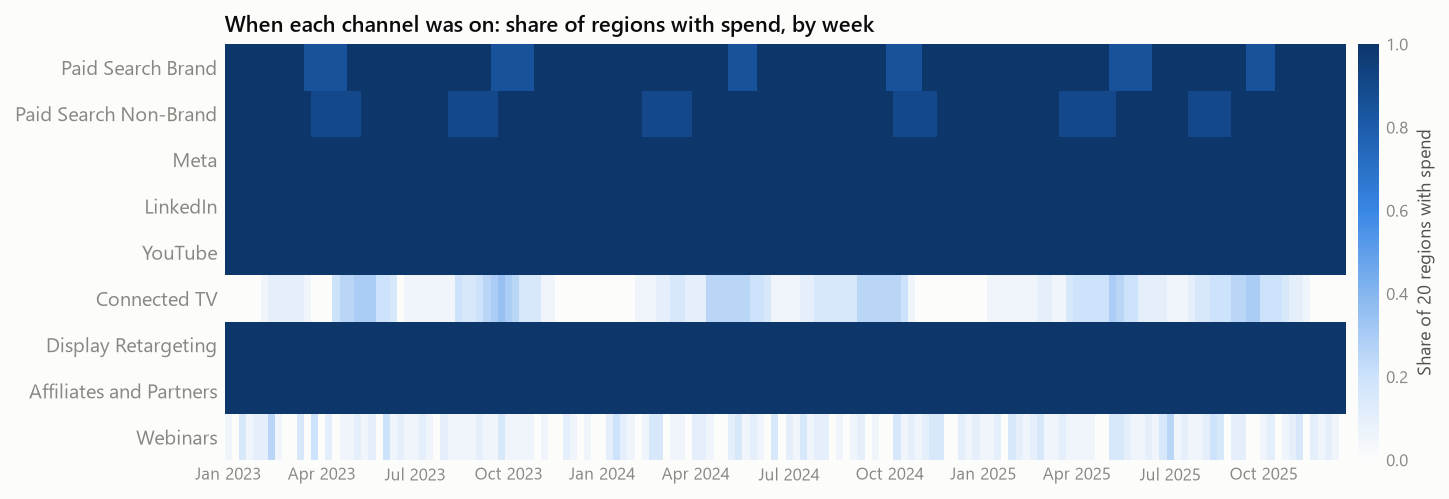
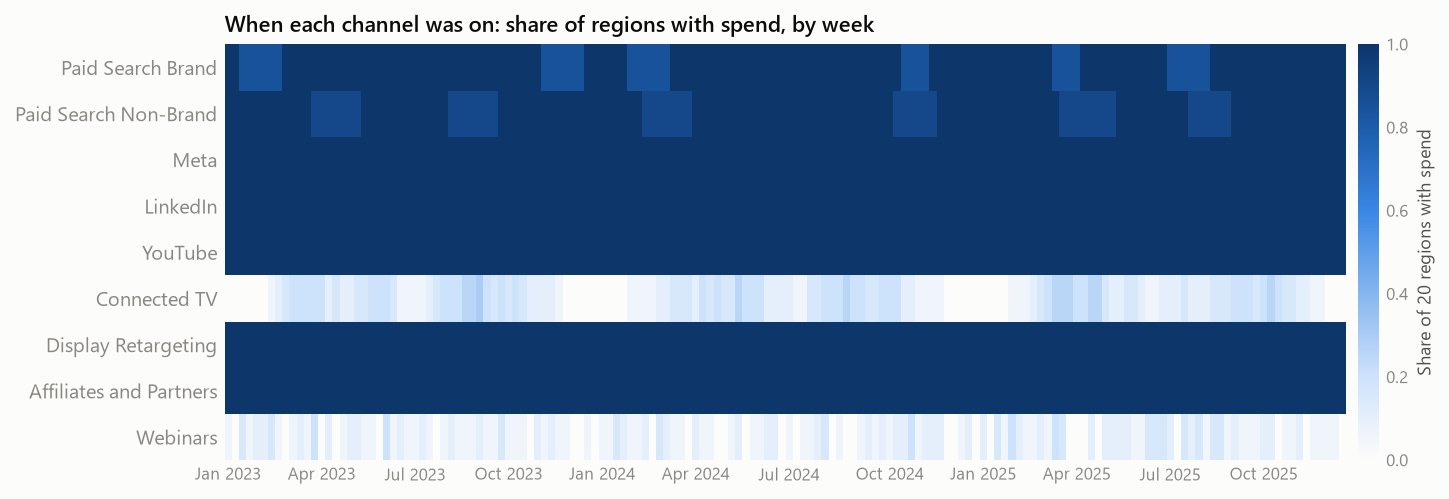
docs(eda): drop the fall timing table and regenerate the report
Raw leads mix demand with media pushes timed nationally, so the
north-to-south timing gap is not reliably visible in them; the table
read differently from seed to seed.

diff --git a/eda/report.py b/eda/report.py
@@ -103,11 +103,6 @@ def load(con) -> dict[str, pd.DataFrame]:
     d["outcome"] = _q(con, """
         select week_start, sum(leads) as leads, sum(won_deals) as deals, sum(won_revenue)::double as revenue
         from fct_funnel group by 1 order by 1""")
-    d["area_leads"] = _q(con, """
-        select f.week_start, f.sales_area, sum(f.leads) as leads
-        from fct_funnel f join dim_channel c using (channel_id)
-        where c.marketing_role = 'unpaid' group by 1, 2 order by 1, 2""")
-    d["area_latitude"] = _q(con, "select sales_area, avg(latitude) as latitude from dim_region group by 1")
     d["by_channel"] = _q(con, """
         select channel_id, year(week_start) as yr, sum(spend)::double as spend,
                sum(platform_conversions) as claims, sum(sourced_leads) as crm_leads
@@ -120,7 +115,7 @@ def load(con) -> dict[str, pd.DataFrame]:
     d["plan_changes"] = _q(con, """
         select change_date, channel_id, budget_change_pct, reason
         from stg_media_plan_changes order by change_date, channel_id""")
-    for k in ("spend", "region_spend", "outcome", "controls", "area_leads"):
+    for k in ("spend", "region_spend", "outcome", "controls"):
         d[k]["week_start"] = pd.to_datetime(d[k]["week_start"])
     d["plan_changes"]["change_date"] = pd.to_datetime(d["plan_changes"]["change_date"])
     return d
@@ -223,25 +218,6 @@ def seasonal_index(d) -> pd.DataFrame:
     last = o.week_start.max()
     o = o[o.week_start < last - pd.Timedelta(weeks=3)]  # drop censored final weeks
     return o.groupby("woy")[["deals_idx", "leads_idx"]].mean()
-
-
-def busy_season_timing(d) -> pd.DataFrame:
-    """When the fall busy season lands in each sales area, from unpaid-source leads (organic
-    search, direct, referral), which carry less of the media calendar than paid sources."""
-    a = d["area_leads"].copy()
-    a["yr"] = a.week_start.dt.isocalendar().year.astype(int)
-    a["woy"] = a.week_start.dt.isocalendar().week.astype(int)
-    a = a[(a.woy <= 52) & (a.week_start < a.week_start.max() - pd.Timedelta(weeks=3))]
-    a["idx"] = 100 * a.leads / a.groupby(["sales_area", "yr"]).leads.transform("mean")
-    prof = a.groupby(["sales_area", "woy"]).idx.mean().unstack(0).rolling(3, center=True).mean()
-    lat = d["area_latitude"].set_index("sales_area").latitude
-    rows = []
-    for area in lat.sort_values(ascending=False).index:
-        above = (prof[area].loc[36:48] - 100).clip(lower=0)
-        rows.append({"Sales area": area, "Average latitude": f"{lat[area]:.1f}",
-                     "Middle of the fall busy season (ISO week)": f"{(above.index * above).sum() / above.sum():.1f}",
-                     "Fall peak week": int(prof[area].loc[36:48].idxmax())})
-    return pd.DataFrame(rows)
 
 
 def chart_seasonality(si: pd.DataFrame) -> str:
@@ -486,11 +462,6 @@ def build(con) -> str:
                    + (f"Not seen: {', '.join(misses)}. The MMM should learn seasonality from the data rather than "
                       "impose the planning calendar." if misses else "The data matches the planning calendar."))
     promo_lift = si.loc[46:50, "deals_idx"].mean() / si.loc[46:50, "leads_idx"].mean()
-    timing = busy_season_timing(d)
-    mid = timing["Middle of the fall busy season (ISO week)"].astype(float)
-    gap = mid.iloc[-1] - mid.iloc[0]
-    timing_note = (f"The fall season lands about {abs(gap):.1f} weeks {'earlier' if gap > 0 else 'later'} in the "
-                   f"{timing['Sales area'].iloc[0]} than in the {timing['Sales area'].iloc[-1]}.")
 
     by_year = d["by_channel"].copy()
     role = dict(zip(d["channels"].channel_id, d["channels"].marketing_role))
@@ -540,12 +511,6 @@ def build(con) -> str:
           _table(pd.DataFrame(season_rows)), "",
           f"{season_note} During the year-end promo (weeks 46 to 50), deals run {promo_lift - 1:+.0%} relative to leads, "
           "which is what a discount on annual plans should do.", "",
-          "The seasons do not arrive on the same week everywhere. Below is when the fall busy season lands in each sales "
-          "area, north to south, measured on leads from unpaid sources (organic search, direct, referral), which carry "
-          "less of the media calendar than paid sources. The middle week weights each week by how far its 3-week average "
-          "sits above 100.", "",
-          _table(timing), "",
-          timing_note, "",
           "## 4. How the media was flighted", "",
           f"![Flighting calendar]({img['flight']})", "",
           f"![Spend by channel]({img['spend']})", "",

diff --git a/docs/eda/EDA.md b/docs/eda/EDA.md
@@ -14,11 +14,11 @@ Built by `python -m eda` from the dbt warehouse only: the golden tables plus a f
 | fct_controls_weekly is a full grid | 3,120 rows (expected 3,120) | Pass |
 | Spend matches the platform exports | $41.9M in both; difference $0.00 | Pass |
 | No negative values; clicks never exceed impressions | 0 bad rows | Pass |
-| Every lead maps to a channel | 0 unmapped of 825,356; 19% recorded as direct | Pass |
+| Every lead maps to a channel | 0 unmapped of 830,676; 19% recorded as direct | Pass |
 | Lead to close (won deals) | median 14 days; 80% between 8 and 24 | Pass |
-| Censoring at the end of the window | 37% of opportunities from the last 4 weeks are still open; treat the final weeks of deals as incomplete | Note |
+| Censoring at the end of the window | 41% of opportunities from the last 4 weeks are still open; treat the final weeks of deals as incomplete | Note |
 | Promo and price calendar loaded | 4 entries | Pass |
-| Channels are not collinear | largest correlation 0.51 (Meta and LinkedIn); largest VIF 1.8 | Pass |
+| Channels are not collinear | largest correlation 0.51 (Meta and LinkedIn); largest VIF 2.0 | Pass |
 
 ## 2. Outcome and spend over time
 
@@ -26,9 +26,9 @@ Built by `python -m eda` from the dbt warehouse only: the golden tables plus a f
 
 | Year | Paid spend | Leads | Closed-won deals | New contract value | Spend per deal |
 |---|---|---|---|---|---|
-| 2023 | $14.1M | 239,628 | 11,108 | $30.0M | $1,272 |
-| 2024 | $13.8M | 238,450 | 11,149 | $31.2M | $1,241 |
-| 2025 | $13.9M | 227,575 | 10,013 | $29.7M | $1,393 |
+| 2023 | $14.2M | 241,602 | 11,365 | $31.0M | $1,249 |
+| 2024 | $13.8M | 238,980 | 11,202 | $31.6M | $1,227 |
+| 2025 | $13.9M | 229,039 | 9,842 | $29.4M | $1,414 |
 
 The last few weeks of 2025 are undercounted for deals, because those leads have not had time to close.
 
@@ -41,24 +41,13 @@ Expected pattern for Midwest service fleets: busy when the season turns (AC swit
 | Period | Expected | Leads index (100 = average week) | Holds |
 |---|---|---|---|
 | Holiday weeks (51, 52, 1) | well below 100 | 74 | Yes |
-| Thanksgiving week (47) | below 100 | 96 | Yes |
-| Winter after the holidays (weeks 3 to 9) | below 100 | 93 | Yes |
+| Thanksgiving week (47) | below 100 | 92 | Yes |
+| Winter after the holidays (weeks 3 to 9) | below 100 | 91 | Yes |
 | Spring switchover, AC on (weeks 19 to 25) | above 100 | 108 | Yes |
 | Summer lull into early fall (weeks 29 to 37) | below 100 | 97 | Yes |
-| Fall switchover, heat on (weeks 40 to 45) | above 100 | 114 | Yes |
+| Fall switchover, heat on (weeks 40 to 45) | above 100 | 115 | Yes |
 
-6 of 6 expectations hold. The data matches the planning calendar. During the year-end promo (weeks 46 to 50), deals run +6% relative to leads, which is what a discount on annual plans should do.
-
-The seasons do not arrive on the same week everywhere. Below is when the fall busy season lands in each sales area, north to south, measured on leads from unpaid sources (organic search, direct, referral), which carry less of the media calendar than paid sources. The middle week weights each week by how far its 3-week average sits above 100.
-
-| Sales area | Average latitude | Middle of the fall busy season (ISO week) | Fall peak week |
-|---|---|---|---|
-| Upper Midwest | 44.6 | 40.5 | 40 |
-| Great Lakes | 42.2 | 41.2 | 42 |
-| Ohio Valley | 39.7 | 40.6 | 41 |
-| Plains | 39.7 | 42.6 | 44 |
-
-The fall season lands about 2.1 weeks earlier in the Upper Midwest than in the Plains.
+6 of 6 expectations hold. The data matches the planning calendar. During the year-end promo (weeks 46 to 50), deals run +5% relative to leads, which is what a discount on annual plans should do.
 
 ## 4. How the media was flighted
 
@@ -68,15 +57,15 @@ The fall season lands about 2.1 weeks earlier in the Upper Midwest than in the P
 
 | Channel | Weeks on (of 156) | Regions used | Typical run in a region (weeks) | Typical pause (weeks) |
 |---|---|---|---|---|
-| Paid Search Brand | 156 | 20 | 82 | 6 |
+| Paid Search Brand | 156 | 20 | 88 | 6 |
 | Paid Search Non-Brand | 156 | 20 | 92 | 7 |
 | Meta | 156 | 20 | 156 | none |
 | LinkedIn | 156 | 20 | 156 | none |
 | YouTube | 156 | 20 | 156 | none |
-| Connected TV | 121 | 8 | 8 | 15 |
+| Connected TV | 129 | 8 | 8 | 16 |
 | Display Retargeting | 156 | 20 | 156 | none |
 | Affiliates and Partners | 156 | 20 | 156 | none |
-| Webinars | 119 | 20 | 1 | 9 |
+| Webinars | 124 | 20 | 1 | 7 |
 
 Media plan changes logged between annual plans:
 
@@ -106,15 +95,15 @@ Media plan changes logged between annual plans:
 
 | Year | Performance | Brand | Events |
 |---|---|---|---|
-| 2023 | 67% | 29% | 5% |
+| 2023 | 66% | 29% | 5% |
 | 2024 | 74% | 21% | 5% |
-| 2025 | 77% | 18% | 6% |
+| 2025 | 77% | 17% | 6% |
 
 ## 6. Reporting sources disagree
 
 ![Claims vs CRM](img/claims_vs_crm.png)
 
-Platforms claim 784,225 conversions in total; the CRM credits 405,176 leads to paid channels. Connected TV gets 0 last-touch leads because nobody clicks a TV ad. Neither source measures what a channel adds; that is the MMM's job.
+Platforms claim 787,316 conversions in total; the CRM credits 405,762 leads to paid channels. Connected TV gets 0 last-touch leads because nobody clicks a TV ad. Neither source measures what a channel adds; that is the MMM's job.
 
 ## 7. Controls
 
@@ -134,29 +123,29 @@ What the data shows about how each channel was bought and reported. These are ob
 *Performance channel.* Bids on searches for Fernhook. Spend follows how many people search the brand. Twice a year a few markets pause it for a few weeks as a planned brand test.
 
 - **When it ran:** On every week of the window; used in 20 of 20 regions, with about 19 active in a typical on-week. Always on within each region, apart from 18 regional pauses of about 6 weeks.
-- **Spend:** 2023: $2.5M, 2024: $2.4M, 2025: $2.4M. Highest in Q2, lowest in Q1; the biggest week was 1.3 times a typical on-week. The top 5 regions take 46% of its spend and hold 45% of target accounts.
+- **Spend:** 2023: $2.5M, 2024: $2.5M, 2025: $2.4M. Highest in Q2, lowest in Q1; the biggest week was 1.4 times a typical on-week. The top 5 regions take 52% of its spend and hold 50% of target accounts.
 - **Plan changes:** none between annual plans.
-- **Reporting:** the platform claims 119,511 conversions; the CRM credits 133,516 last-touch leads (0.9 times). Last-touch cost per lead: 2023: $52, 2024: $55, 2025: $60.
-- **What to watch in the MMM:** its weekly spend tracks total leads closely (correlation 0.79). Spend that follows demand can look like it causes demand. The regional pauses are the cleanest evidence of what it adds.
+- **Reporting:** the platform claims 121,092 conversions; the CRM credits 133,831 last-touch leads (0.9 times). Last-touch cost per lead: 2023: $51, 2024: $55, 2025: $60.
+- **What to watch in the MMM:** its weekly spend tracks total leads closely (correlation 0.89). Spend that follows demand can look like it causes demand. The regional pauses are the cleanest evidence of what it adds.
 
 ### Paid Search Non-Brand
 
 *Performance channel.* Always on. Budgets lean into busy seasons. Twice a year the team runs planned regional tests: a few markets pause and a few get extra budget.
 
 - **When it ran:** On every week of the window; used in 20 of 20 regions, with about 19 active in a typical on-week. Always on within each region, apart from 12 regional pauses of about 7 weeks.
-- **Spend:** 2023: $3.7M, 2024: $4.2M, 2025: $5.2M. Highest in Q2, lowest in Q4; the biggest week was 1.6 times a typical on-week. The top 5 regions take 46% of its spend and hold 43% of target accounts.
+- **Spend:** 2023: $3.7M, 2024: $4.2M, 2025: $5.2M. Highest in Q2, lowest in Q4; the biggest week was 1.6 times a typical on-week. The top 5 regions take 50% of its spend and hold 47% of target accounts.
 - **Plan changes:** Apr 2023 +7% (Q1 review: CTV test expands, YouTube trimmed); Apr 2024 +12% (Attribution review: video and CTV show few last-touch leads); Feb 2025 +9% (New fiscal year: more for what last touch rewards).
-- **Reporting:** the platform claims 165,275 conversions; the CRM credits 113,269 last-touch leads (1.5 times). Last-touch cost per lead: 2023: $107, 2024: $109, 2025: $129.
-- **What to watch in the MMM:** always on and seasonal (correlation with total leads 0.20), so most of its signal comes from the regional budget tests and pauses, not from week-to-week swings.
+- **Reporting:** the platform claims 166,250 conversions; the CRM credits 114,175 last-touch leads (1.5 times). Last-touch cost per lead: 2023: $106, 2024: $109, 2025: $129.
+- **What to watch in the MMM:** always on and seasonal (correlation with total leads 0.19), so most of its signal comes from the regional budget tests and pauses, not from week-to-week swings.
 
 ### Meta
 
 *Brand channel.* Always-on prospecting that pushes before and into the spring and fall busy seasons and eases off in slow weeks. Each market's timing differs.
 
 - **When it ran:** On every week of the window; used in 20 of 20 regions, with about 20 active in a typical on-week. Always on in every region it uses.
-- **Spend:** 2023: $1.5M, 2024: $1.4M, 2025: $1.0M. Highest in Q3, lowest in Q2; the biggest week was 2.3 times a typical on-week. The top 5 regions take 46% of its spend and hold 36% of target accounts.
+- **Spend:** 2023: $1.5M, 2024: $1.4M, 2025: $1.0M. Highest in Q3, lowest in Q2; the biggest week was 2.3 times a typical on-week. The top 5 regions take 55% of its spend and hold 47% of target accounts.
 - **Plan changes:** Oct 2023 -12% (Q4 plan: more retargeting for year-end); Aug 2024 -17% (Cost cut during the hiring freeze); Jun 2025 +23% (Meta retest after a new creative agency).
-- **Reporting:** the platform claims 197,956 conversions; the CRM credits 55,058 last-touch leads (3.6 times). Last-touch cost per lead: 2023: $72, 2024: $72, 2025: $67.
+- **Reporting:** the platform claims 199,719 conversions; the CRM credits 55,000 last-touch leads (3.6 times). Last-touch cost per lead: 2023: $73, 2024: $72, 2025: $67.
 - **What to watch in the MMM:** pushes land on the busy seasons, so spend rises when demand does. Each market's push comes on its own week and at its own size, and that is the contrast to learn from; the June 2025 retest adds a late step up.
 
 ### LinkedIn
@@ -164,9 +153,9 @@ What the data shows about how each channel was bought and reported. These are ob
 *Performance channel.* Lead-gen forms, always on. Market budgets are re-split every quarter.
 
 - **When it ran:** On every week of the window; used in 20 of 20 regions, with about 20 active in a typical on-week. Always on in every region it uses.
-- **Spend:** 2023: $1.4M, 2024: $1.4M, 2025: $1.1M. Highest in Q3, lowest in Q1; the biggest week was 1.8 times a typical on-week. The top 5 regions take 48% of its spend and hold 37% of target accounts.
+- **Spend:** 2023: $1.5M, 2024: $1.3M, 2025: $1.0M. Highest in Q3, lowest in Q4; the biggest week was 1.9 times a typical on-week. The top 5 regions take 56% of its spend and hold 48% of target accounts.
 - **Plan changes:** Aug 2024 -19% (Cost cut during the hiring freeze).
-- **Reporting:** the platform claims 42,314 conversions; the CRM credits 20,476 last-touch leads (2.1 times). Last-touch cost per lead: 2023: $194, 2024: $191, 2025: $177.
+- **Reporting:** the platform claims 42,632 conversions; the CRM credits 20,427 last-touch leads (2.1 times). Last-touch cost per lead: 2023: $195, 2024: $191, 2025: $177.
 - **What to watch in the MMM:** always on with no pauses, so its signal comes from quarterly market re-splits and plan changes.
 
 ### YouTube
@@ -174,19 +163,19 @@ What the data shows about how each channel was bought and reported. These are ob
 *Brand channel.* National flights that run several weeks ahead of each busy season, with a low level in between. Each flight targets about three in four markets.
 
 - **When it ran:** On every week of the window; used in 20 of 20 regions, with about 20 active in a typical on-week. Always on in every region it uses.
-- **Spend:** 2023: $1.2M, 2024: $0.8M, 2025: $0.4M. Highest in Q3, lowest in Q1; the biggest week was 15.5 times a typical on-week. The top 5 regions take 48% of its spend and hold 41% of target accounts.
+- **Spend:** 2023: $1.1M, 2024: $0.8M, 2025: $0.4M. Highest in Q3, lowest in Q1; the biggest week was 15.3 times a typical on-week. The top 5 regions take 52% of its spend and hold 50% of target accounts.
 - **Plan changes:** Apr 2023 -22% (Q1 review: CTV test expands, YouTube trimmed); Apr 2024 -31% (Attribution review: video and CTV show few last-touch leads); Jun 2025 -14% (Meta retest after a new creative agency).
-- **Reporting:** the platform claims 65,261 conversions; the CRM credits 3,566 last-touch leads (18.3 times). Last-touch cost per lead: 2023: $690, 2024: $663, 2025: $709.
+- **Reporting:** the platform claims 64,631 conversions; the CRM credits 3,376 last-touch leads (19.1 times). Last-touch cost per lead: 2023: $712, 2024: $686, 2025: $767.
 - **What to watch in the MMM:** flights are national and run ahead of each busy season, so they line up with the run-up in demand; long carryover means effects can land in the busy weeks after a flight ends.
 
 ### Connected TV
 
 *Brand channel.* A market test in 8 markets. Each runs its own flight ahead of each busy season and goes dark between flights.
 
-- **When it ran:** On 121 of 156 weeks nationally; used in 8 of 20 regions, with about 3 active in a typical on-week. Within a region it typically runs 8 weeks on, then pauses for 15 weeks (40 regional pauses in all).
-- **Spend:** 2023: $1.4M, 2024: $0.7M, 2025: $1.0M. Highest in Q2, lowest in Q1; the biggest week was 6.0 times a typical on-week. The top 5 regions take 74% of its spend and hold 34% of target accounts.
+- **When it ran:** On 129 of 156 weeks nationally; used in 8 of 20 regions, with about 3 active in a typical on-week. Within a region it typically runs 8 weeks on, then pauses for 16 weeks (40 regional pauses in all).
+- **Spend:** 2023: $1.4M, 2024: $0.7M, 2025: $0.9M. Highest in Q3, lowest in Q4; the biggest week was 4.4 times a typical on-week. The top 5 regions take 82% of its spend and hold 36% of target accounts.
 - **Plan changes:** Apr 2023 +15% (Q1 review: CTV test expands, YouTube trimmed); Apr 2024 -34% (Attribution review: video and CTV show few last-touch leads).
-- **Reporting:** the platform claims 42,414 conversions; the CRM credits 0 last-touch leads (with no CRM credit to compare against). Last-touch cost per lead: not defined (no CRM credit).
+- **Reporting:** the platform claims 41,662 conversions; the CRM credits 0 last-touch leads (with no CRM credit to compare against). Last-touch cost per lead: not defined (no CRM credit).
 - **What to watch in the MMM:** runs in only 8 regions. The other 12 regions are a natural comparison group, and each test market times its own flights.
 
 ### Display Retargeting
@@ -194,9 +183,9 @@ What the data shows about how each channel was bought and reported. These are ob
 *Performance channel.* Always-on retargeting of past site visitors. Market budgets are re-split every quarter.
 
 - **When it ran:** On every week of the window; used in 20 of 20 regions, with about 20 active in a typical on-week. Always on in every region it uses.
-- **Spend:** 2023: $1.2M, 2024: $1.5M, 2025: $1.4M. Highest in Q3, lowest in Q1; the biggest week was 1.8 times a typical on-week. The top 5 regions take 51% of its spend and hold 45% of target accounts.
+- **Spend:** 2023: $1.2M, 2024: $1.5M, 2025: $1.5M. Highest in Q3, lowest in Q1; the biggest week was 1.9 times a typical on-week. The top 5 regions take 54% of its spend and hold 47% of target accounts.
 - **Plan changes:** Oct 2023 +18% (Q4 plan: more retargeting for year-end); Aug 2024 -15% (Cost cut during the hiring freeze); Feb 2025 +13% (New fiscal year: more for what last touch rewards).
-- **Reporting:** the platform claims 45,617 conversions; the CRM credits 21,695 last-touch leads (2.1 times). Last-touch cost per lead: 2023: $163, 2024: $201, 2025: $206.
+- **Reporting:** the platform claims 46,095 conversions; the CRM credits 21,618 last-touch leads (2.1 times). Last-touch cost per lead: 2023: $164, 2024: $201, 2025: $209.
 - **What to watch in the MMM:** always on and retargets people who already visited, so it overlaps with demand from every other channel.
 
 ### Affiliates and Partners
@@ -204,19 +193,19 @@ What the data shows about how each channel was bought and reported. These are ob
 *Performance channel.* Placement and sponsor fees with local resellers and fleet consultants, set when each market's contracts renew every quarter. Commissions are booked as cost of sale.
 
 - **When it ran:** On every week of the window; used in 20 of 20 regions, with about 20 active in a typical on-week. Always on in every region it uses.
-- **Spend:** 2023: $0.5M, 2024: $0.7M, 2025: $0.6M. Highest in Q3, lowest in Q1; the biggest week was 1.5 times a typical on-week. The top 5 regions take 54% of its spend and hold 44% of target accounts.
+- **Spend:** 2023: $0.5M, 2024: $0.7M, 2025: $0.6M. Highest in Q3, lowest in Q4; the biggest week was 1.4 times a typical on-week. The top 5 regions take 51% of its spend and hold 46% of target accounts.
 - **Plan changes:** Apr 2024 +21% (Attribution review: video and CTV show few last-touch leads); Nov 2024 -24% (Two reseller contracts end).
-- **Reporting:** the platform claims 56,248 conversions; the CRM credits 25,028 last-touch leads (2.2 times). Last-touch cost per lead: 2023: $70, 2024: $80, 2025: $69.
-- **What to watch in the MMM:** fees change only when each market's contracts renew, so there are few distinct spend levels to learn from, and the top 5 regions take 54% of spend against 44% of accounts.
+- **Reporting:** the platform claims 55,830 conversions; the CRM credits 24,726 last-touch leads (2.3 times). Last-touch cost per lead: 2023: $70, 2024: $80, 2025: $71.
+- **What to watch in the MMM:** fees change only when each market's contracts renew, so there are few distinct spend levels to learn from, and the top 5 regions take 51% of spend against 46% of accounts.
 
 ### Webinars
 
 *Events channel.* Regional live events. Cost lands in the week of each event.
 
-- **When it ran:** On 119 of 156 weeks nationally; used in 20 of 20 regions, with about 2 active in a typical on-week. Spend comes in single weeks; a region typically goes 9 weeks between them.
-- **Spend:** 2023: $0.7M, 2024: $0.7M, 2025: $0.8M. Highest in Q1, lowest in Q4; the biggest week was 4.2 times a typical on-week. The top 5 regions take 46% of its spend and hold 45% of target accounts.
+- **When it ran:** On 124 of 156 weeks nationally; used in 20 of 20 regions, with about 2 active in a typical on-week. Spend comes in single weeks; a region typically goes 7 weeks between them.
+- **Spend:** 2023: $0.7M, 2024: $0.7M, 2025: $0.8M. Highest in Q1, lowest in Q4; the biggest week was 4.2 times a typical on-week. The top 5 regions take 53% of its spend and hold 50% of target accounts.
 - **Plan changes:** none between annual plans.
-- **Reporting:** the platform claims 49,630 conversions; the CRM credits 32,568 last-touch leads (1.5 times). Last-touch cost per lead: 2023: $65, 2024: $68, 2025: $66.
+- **Reporting:** the platform claims 49,405 conversions; the CRM credits 32,609 last-touch leads (1.5 times). Last-touch cost per lead: 2023: $68, 2024: $65, 2025: $66.
 - **What to watch in the MMM:** spend lands in one region and one week at a time, a strong natural experiment.
 
 ## 9. Strongest spend correlations
@@ -224,9 +213,9 @@ What the data shows about how each channel was bought and reported. These are ob
 | Channel A | Channel B | Correlation |
 |---|---|---|
 | Meta | LinkedIn | 0.51 |
-| Paid Search Brand | Connected TV | 0.42 |
 | Paid Search Non-Brand | Meta | -0.40 |
-| YouTube | Connected TV | 0.34 |
-| YouTube | Affiliates and Partners | 0.34 |
+| Paid Search Brand | YouTube | 0.40 |
+| Paid Search Brand | Connected TV | 0.35 |
+| Paid Search Non-Brand | LinkedIn | -0.35 |
 
-Variance inflation (VIF) of national weekly spend: Paid Search Non-Brand 1.8, Meta 1.7, LinkedIn 1.6, Paid Search Brand 1.6, YouTube 1.6, Connected TV 1.5, Affiliates and Partners 1.4, Display Retargeting 1.2, Webinars 1.0.
+Variance inflation (VIF) of national weekly spend: Meta 2.0, Paid Search Non-Brand 1.9, Paid Search Brand 1.7, LinkedIn 1.5, YouTube 1.5, Affiliates and Partners 1.4, Display Retargeting 1.3, Connected TV 1.2, Webinars 1.1.
